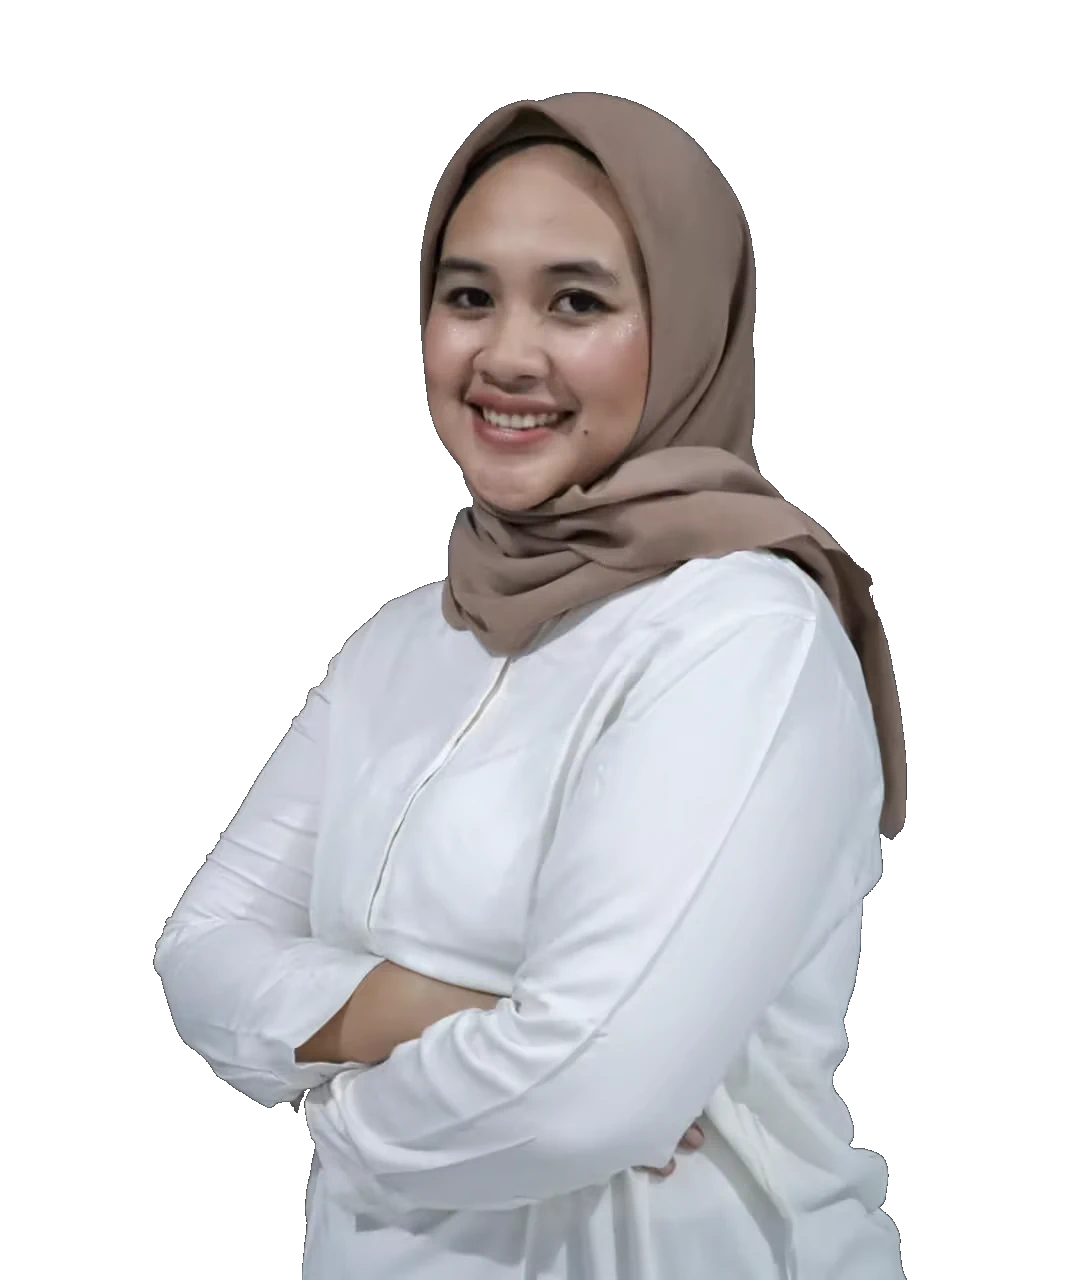
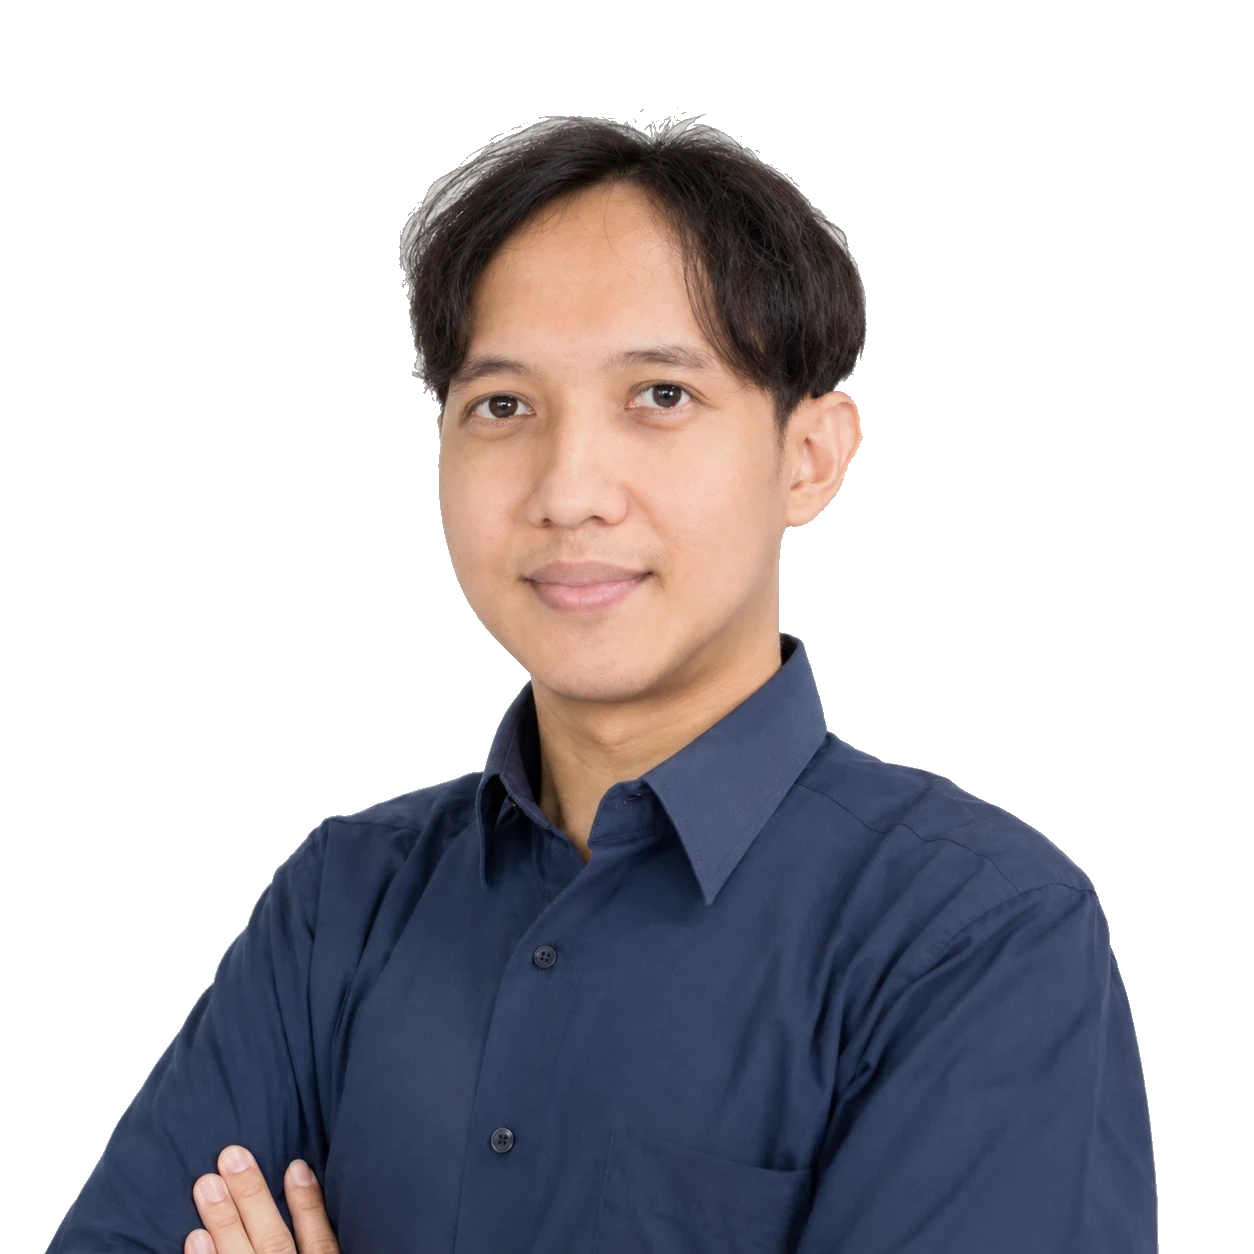
smol changes

diff --git a/src/data/programs.ts b/src/data/programs.ts
@@ -20,7 +20,7 @@ export const programs: Program[] = [
       'Biomedical AI',
     ],
     image: assetUrl('/images/programs/biomedical.jpg'),
-    link: 'https://biomedical.kmb.ac.id/',
+    link: '/academic/biomedical',
     desc: 'Our biomedical program trains you to engineer life-saving medical technology. You will bridge the gap between complex human biology and mechanical design, building exact solutions like prosthetics, artificial organs, and diagnostic systems. This is a rigorous, high-stakes track designed for students who want their technical engineering skills to directly impact human survival and physical capability.',
   },
   {
@@ -33,7 +33,7 @@ export const programs: Program[] = [
       'Biotechnology Industry',
     ],
     image: assetUrl('/images/programs/biotech.jpg'),
-    link: '/bioteknologi',
+    link: '/',
     desc:'Biotechnology is the frontline of global survival and medical advancement. You will learn to manipulate cellular and molecular processes to engineer breakthrough therapeutics, sustainable agriculture, and advanced biomaterials. This program demands intense laboratory discipline, equipping you with the exact technical expertise required to drive commercial innovation and solve biological crises.'
   },
   {
@@ -42,7 +42,7 @@ export const programs: Program[] = [
     degree: 'Bachelor',
     subPrograms: ['Law & Litigation', 'Medical Law'],
     image: assetUrl('/images/programs/law.jpg'),
-    link: 'https://law.kmb.ac.id/',
+    link: '/',
     desc:'Law is the operating system of society. This program strips away the abstract to teach you the exact mechanics of contracts, jurisprudence, and governance. You will learn to deconstruct complex regulatory frameworks, build ironclad arguments, and wield the legal system to enforce structure, defend rights, and drive corporate or societal accountability.'
   },
   {
@@ -55,7 +55,7 @@ export const programs: Program[] = [
       'Entrepreneur Business Management',
     ],
     image: assetUrl('/images/programs/management.jpg'),
-    link: 'https://management.kmb.ac.id/',
+    link: '/',
     desc:'Businesses fail without structural discipline and precise resource allocation. Our management program delivers the exact operational frameworks required to scale organizations, optimize supply chains, and direct personnel. You will bypass corporate guesswork and learn the hard metrics of financial strategy, risk mitigation, and enterprise leadership required to drive market success.'
   },
   {
@@ -67,7 +67,7 @@ export const programs: Program[] = [
       'Strategic Business Communication Science',
     ],
     image: assetUrl('/images/programs/communication.jpg'),
-    link: 'https://communication.kmb.ac.id/',
+    link: '/',
     desc: 'Information controls markets, politics, and culture. This program teaches the precise architecture of how messages are constructed, distributed, and absorbed across global networks. You will master data-driven strategies and behavioral psychology to shape public perception, manage corporate crises, and command audience action in a highly saturated digital economy.'
   },
   {
@@ -79,7 +79,7 @@ export const programs: Program[] = [
       'Entrepreneur in Midwifery Business',
     ],
     image: assetUrl('/images/programs/midwiferys1.jpg'),
-    link: 'https://bachelor-midwifery.kmb.ac.id/',
+    link: '/',
     desc:'Midwifery is specialized, frontline maternal healthcare. You will master the strict clinical protocols required to manage pregnancy, execute safe deliveries, and prevent maternal and infant mortality. This program demands absolute precision, rapid decision-making, and profound resilience, preparing you to act as the primary medical authority in the delivery room.'
   },
 

diff --git a/src/data/contact.ts b/src/data/contact.ts
@@ -16,6 +16,6 @@ export const contact = {
     youtube: 'Agung Putra University',
     youtubeLink: 'https://youtube.com/@agungputrauniversity?si=_mGkKDNYmk24Yeqv',
   },
-  pmbLink: 'apu.ac.id/admission/',
-  gelombangLink: 'apu.ac.id/admission/',
+  pmbLink: 'http://49.50.9.214:8060/index.php/pendaftaran_pmb',
+  gelombangLink: 'http://49.50.9.214:8060/index.php/pendaftaran_pmb',
 };

diff --git a/src/data/academic-programs.ts b/src/data/academic-programs.ts
@@ -31,7 +31,7 @@ export const leadershipMessage: LeadershipMessage = {
   leaderTitle: "Head of Biomedical Science Study Program",
   leaderImage: assetUrl('/images/academic/biomedical-kaprodi.webp'),
   cta: {
-    href: "/about-apu",
+    href: "/academic",
     label: "Discover the Campus Vision",
   },
 };

diff --git a/src/data/leadership.ts b/src/data/leadership.ts
@@ -24,7 +24,7 @@ export const leadershipMessage: LeadershipMessage = {
   leaderTitle: "Founder and Commissioner PT. SCCR",
 leaderImage: assetUrl('/images/leadership-portrait.webp'),
   cta: {
-    href: "/about-apu",
+    href: "/academic",
     label: "Discover the Campus Vision",
   },
 };

diff --git a/src/data/pathways.ts b/src/data/pathways.ts
@@ -48,7 +48,7 @@ export const pathways: Pathway[] = [
         badgeType: "normal",
       },
     ],
-    ctaText: "Apply — Regular",
+    ctaText: "Apply Regular",
     ctaLink: "http://49.50.9.214:8060/index.php/pendaftaran_pmb",
   },
   {